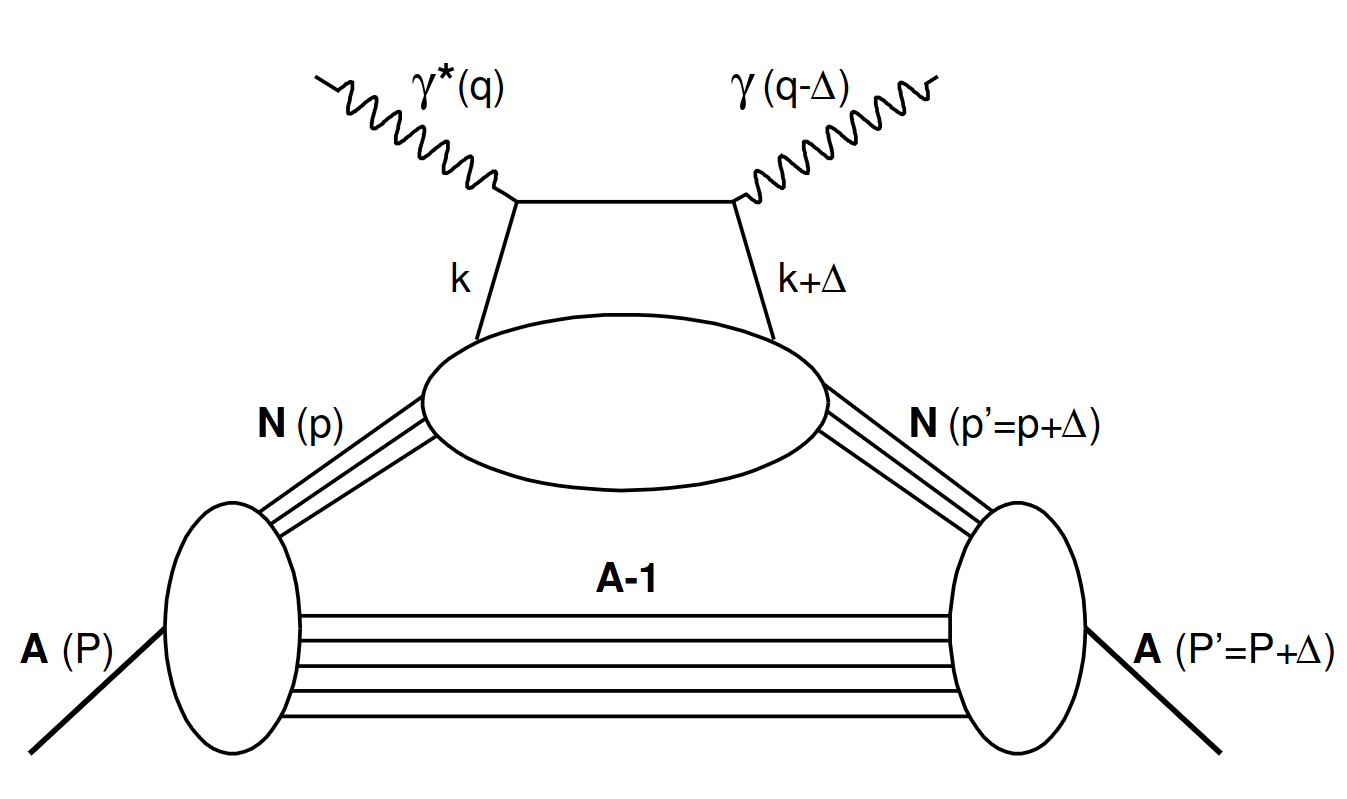
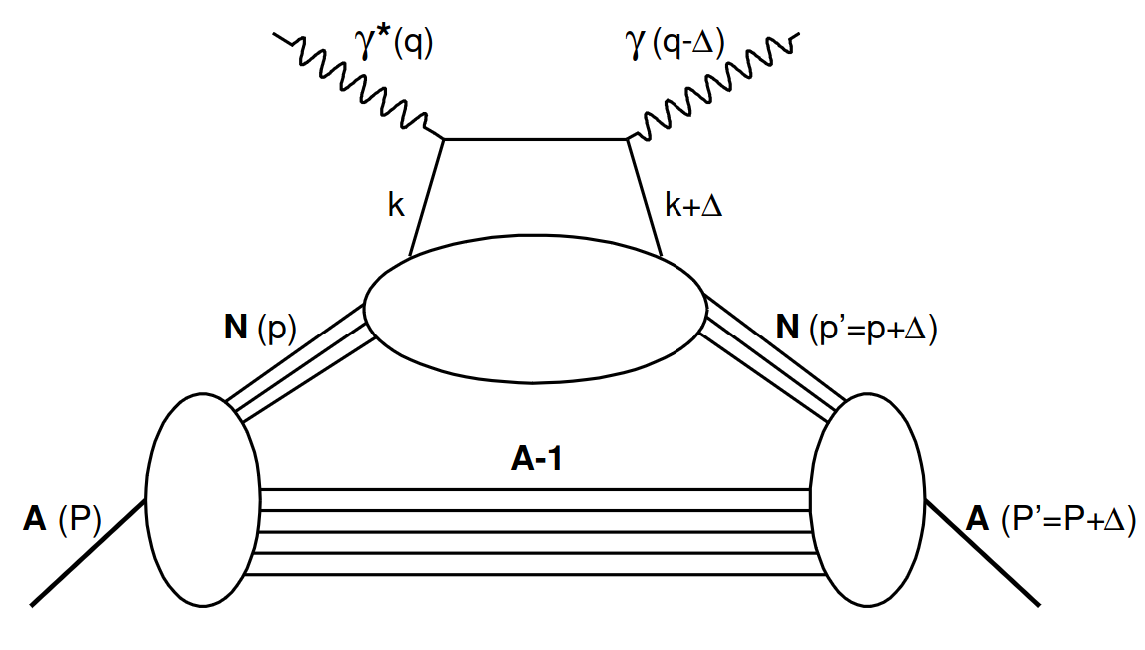
finish ect* presentation

diff --git a/others-events/workshop_trento_2026_11_10/main.tex b/others-events/workshop_trento_2026_11_10/main.tex
@@ -11,7 +11,7 @@
 \hypersetup{
     colorlinks=true,
     linkcolor=blue,
-    urlcolor=red
+    urlcolor=blue
 }
 \usepackage{fontawesome5}
 \usepackage{ulem}
@@ -44,69 +44,118 @@
 \begin{frame}{Nuclear GPDs}
     \begin{itemize}
         \item The Generalized Parton Distributions (GPDs) combine the notion of PDFs and FFs, along with their correlations 
-            % \begin{itemize}
-            %     \item 3D imaging, spin puzzle, distribution of pressure and shear forces
-            % \end{itemize}
         \item We can access GPDs off the free proton or off a nucleus
         \item A direct comparison of these distributions can reveal a variety of nuclear effects
             \begin{itemize}
-                \item \textit{e.g.} modification of the quark confinement size, short range correlation
+                \item \textit{e.g.} modification of the quark confinement size, short range correlations
+                \item this will provide new insights into the understanding of the EMC effect
             \end{itemize}
-        \item This will provide new insights into the understanding of the EMC effect
     \end{itemize}
 
 
     \centering
-    \vspace{0.3cm}
+    \vspace{0.5cm}
 
-    \includegraphics[width=0.45\linewidth]{figures/gpd_3D_imaging.png}
-    \includegraphics[width=0.45\linewidth]{figures/emc_effect.png}
+    \includegraphics[width=0.5\linewidth]{figures/gpd_3D_imaging.png}
 
 
 \end{frame}
 
+\begin{frame}{Nuclear DVCS}
+    \begin{itemize}
+        \item We can access quark GPDs in Deeply Virtual Compton Scattering (DVCS)
+        \item For a nuclear target, the DVCS can be coherent or incoherent
+    \end{itemize}
 
-\begin{frame}{Nuclear coherent DVCS}
-
-    \begin{minipage}{0.62\linewidth}
-        \begin{itemize}
-            \item We can access quark GPDs in DVCS
-            \item For a nuclear target, the DVCS can be coherent or incoherent
-            \item First measurements by HERMES
-                \begin{itemize}
-                    \item The recoil nuclei were not detected
-                    \item $-t$ based threshold to separate the channels
-                    \item Measurements affected by large uncertainties
-                    \item No nuclear dependence of the BSA found
-                \end{itemize}
-            \item CLAS eg6 : first coherent DVCS off $^4\mbox{He}$
-                \begin{itemize}
-                    \item The recoil nucleus was detected
-                    \item Coherent and incoherent channels were isolated
-                    \item The coherent BSA is twice the one measured on the free proton
-                \end{itemize}
-        \end{itemize}
-    \end{minipage}
-    \begin{minipage}{0.35\linewidth}
-        
-        \includegraphics[width=\linewidth]{figures/coherent_dvcs.png}
-
-        \vspace{0.2cm}
-
-        \includegraphics[width=0.9\linewidth]{figures/hermes_t_based_selection_cuts.png}
-    \end{minipage}
-
-    %\vspace{0.2cm}
+    \vspace{0.8cm}
     \centering
-    \includegraphics[width=0.63\linewidth]{figures/coherent_dvcs_bsa.png}
+
+    \begin{minipage}{0.45\linewidth}
+        \centering
+        \includegraphics[width=\linewidth, height=3.5cm]{figures/coherent_dvcs.png}
+
+        \textbf{Coherent}
+    \end{minipage} \hspace{0.1cm}
+    \begin{minipage}{0.45\linewidth}
+        \centering
+        \includegraphics[width=\linewidth, height=3.5cm]{figures/incoherent_dvcs.png}
+
+        \textbf{Incoherent}
+    \end{minipage}
+    
+    
+
+\end{frame}
+
+\begin{frame}{HERMES results}
+
+    \begin{itemize}
+        \item The first nuclear DVCS measurements were performed by the HERMES collaboration at DESY
+        \vspace{0.2cm}
+        \item They studied the hard exclusive photon production: $e A \rightarrow e \gamma X$
+            \begin{itemize}
+                \item They used various targets (H, He, N, Ne, Kr, Xe)
+                \item The recoiling system was not detected
+            \end{itemize}
+
+    \end{itemize}
+
+    \vspace{0.2cm}
+    \centering
+
+    \begin{minipage}{0.55\linewidth}
+        \begin{itemize}
+            \item There were unable to directly separate the coherent and incoherent channels
+                \begin{itemize}
+                    \item They used a $|t|$ based threshold to separate the channels
+                \end{itemize}
+            \vspace{0.2cm}
+            \item The measurements were affected by large uncertainties and no nuclear dependence of the coherent Beam Spin Asymmetry (BSA) was found
+        \end{itemize}
+    \end{minipage}\hfill
+    \begin{minipage}{0.42\linewidth}
+        \includegraphics[width=0.95\linewidth]{figures/hermes_t_based_selection_cuts.png}
+    \end{minipage}
+
+    \vfill
+    {
+        \footnotesize
+        \href{https://arxiv.org/abs/0911.0091}{A. Airapetian, et al, arxiv:0911.0091} 
+    }
+    
+\end{frame}
+
+
+\begin{frame}{CLAS eg6 results}
+    
+    \begin{itemize}
+        \item The CLAS eg6 experiment at JLab successfully measured the first coherent DVCS off $^4\mbox{He}$
+        \item In contrast to HERMES, the DVCS process was fully exclusive
+            \begin{itemize}
+                \item The recoil nucleus was detected
+                \item Coherent and incoherent channels were well isolated
+            \end{itemize}
+        \item The extracted coherent BSA was twice the one measured on the free proton
+    \end{itemize}
+    
+
+    \vspace{0.5cm}
+    \centering
+    \includegraphics[width=0.8\linewidth]{figures/coherent_dvcs_bsa.png}
+
+    \vfill
+    {
+        \footnotesize
+        \href{https://arxiv.org/abs/2102.07419}{R. Dupré, M. Hattawy et al., arxiv:2102.07419} 
+    }
 
 \end{frame}
 
 
 \begin{frame}{ALERT experiment}
     \begin{itemize}
-        \item ALERT is an extension of the CLAS eg6 at higher luminosity and 12 GeV
-        \item It based on a new detector, A Low Energy Recoil Tracker
+        \item ALERT is an extension of CLAS eg6 at higher luminosity, 12 GeV era at JLab
+        \item It based on a new detector, \textit{A} \textit{L}ow \textit{E}nergy \textit{R}ecoil \textit{T}racker
             \begin{itemize}
                 \item Along with the $^4\mbox{He}$, identify the two isobars $^3\mbox{He}$ et $^3\mbox{H}$
                 \item With kinematics: $70 < p < 400$ MeV/c, $\theta > 45^\circ$
@@ -133,9 +182,10 @@
         \vspace{0.3cm}
         \item Run summary
             \begin{itemize}
+                \item Various targets, various beam energies
+                \item Total number of trigger events: $6.54 \times 10^{10}$
                 \item Beam current: up to 325 nA
                 \item Average event rate: 10 kHz
-                \item Total number of events: $6.54 \times 10^{10}$
             \end{itemize}
         
     \end{itemize}
@@ -145,6 +195,7 @@
 
     \begin{table}[h]
     \centering
+    \renewcommand{\arraystretch}{1.3}
     \begin{tabular}{|c|c|c|c|c|}
     \hline
     \diagbox{Target}{Beam} & 10.68 GeV & 6.47 GeV & 2.24 GeV & \textbf{Total}\\
@@ -157,7 +208,7 @@
     \hline
     empty  & 0.28 & 0.21 & 0 & 0.49 \\
     \hline
-    \textbf{Total}  & 85.68 & 8.22 & 6.1 & 100 \% \\
+    \textbf{Total}  & 85.68 & 8.22 & 6.1 & \textbf{100 \%} \\
     \hline
     \end{tabular}
     \caption{Distribution of the number of events.}
@@ -167,19 +218,39 @@
     
 \end{frame}
 
-\begin{frame}{Phase space}
+\begin{frame}{Preliminary results}
 
     \begin{itemize}
-        \item 
+        \item Since the end of the data taking, efforts are mainly focused the calibration of the data and the improvement of the reconstruction software
+        \item While incomplete, we can already see some coherent DVCS events off $^4$He
+        \item Phase space comparison
+            \begin{itemize}
+                \item ALERT covers lower $x_{B}$ and higher $Q^{2}$ values
+            \end{itemize}
     \end{itemize}
     
     % \includegraphics[width=0.3\linewidth]{figures/phase_space.pdf}
 
+    \vspace{0.3cm}
     \centering
 
-    \includegraphics[width=0.4\linewidth]{figures/alert_dvcs_Q2_vs_xB.pdf}
-    \includegraphics[width=0.4\linewidth]{figures/eg6_dvcs_Q2_vs_xB.png}
-    \includegraphics[width=0.4\linewidth]{figures/phase_space.pdf}
+    \begin{minipage}[t]{0.4\linewidth}
+        \centering
+        \includegraphics[width=\linewidth]{figures/eg6_dvcs_Q2_vs_xB.png}
+
+        CLAS eg6
+    \end{minipage}
+    \hspace{0.2cm}
+    \begin{minipage}[t]{0.4\linewidth}
+        \centering
+        \includegraphics[width=\linewidth]{figures/alert_dvcs_Q2_vs_xB.pdf}
+
+        ALERT
+    \end{minipage}
+    
+    
+    
+    
     
 \end{frame}
 
@@ -187,8 +258,7 @@
 \begin{frame}{Preliminary Beam Spin Asymmetry}
 
     \begin{itemize}
-        \item All the work on the software and calibration is to prepare for my analysis
-        \item Warnings
+        \item \textbf{Warnings}
             \begin{itemize}
                 \item The AHDC reconstruction is not completed
                 \item The calibration is still ongoing (ALERT and CLAS)
@@ -205,6 +275,20 @@
     %\vspace{0.2cm}
 
     \includegraphics[width=0.5\linewidth]{figures/bsa.pdf}
+    
+\end{frame}
+
+
+\begin{frame}{Summary}
+
+    \begin{itemize}
+        \item The study of nuclear GPDs will provide new insights into the QCD description of the nuclear structure
+        \item The results by HERMES and CLAS eg6 highlight the need to ensure the full exclusivity of the nuclear DVCS process in order to separate the coherent and the incoherent channels
+        \item The ALERT experiment is an extension of CLAS eg6 (higher luminosity, various beam energies, various targets)
+        \item One year after the run period, the calibration is still ongoing, and the reconstruction software is evolving
+        \item However, we can already isolate some processes of interest (\textit{e.g} coherent DVCS off $^4$He in this talk)
+        \item For the upcoming year, we plan to finalize the calibration of the data and to perform a more complete DVCS analysis
+    \end{itemize}
     
 \end{frame}
 
